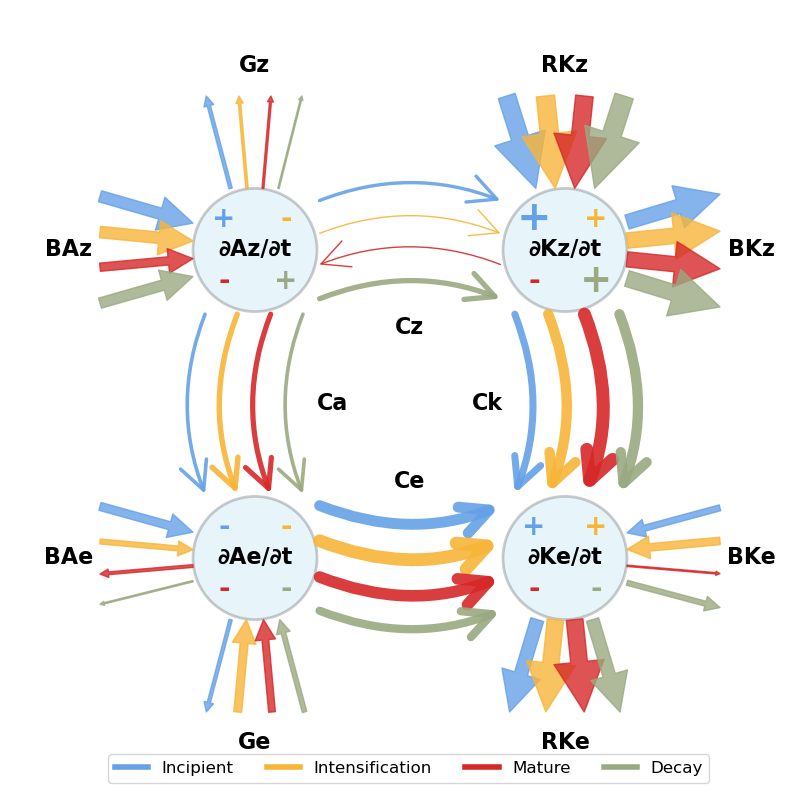
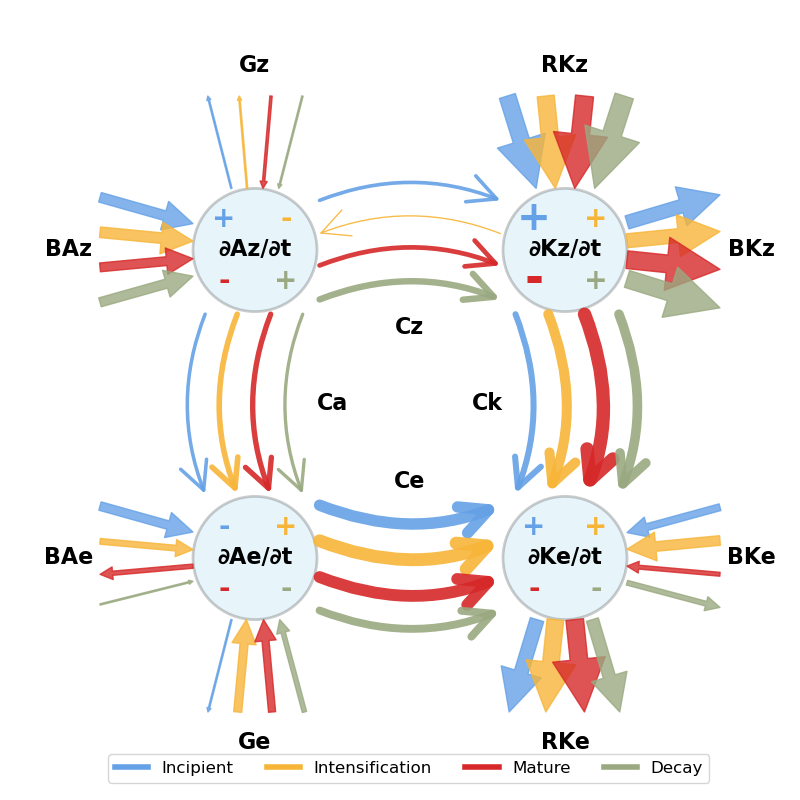
tests for arrow length

diff --git a/manuscript_lec_climatology/draw_lec_arrow_length.py b/manuscript_lec_climatology/draw_lec_arrow_length.py
@@ -1,12 +1,12 @@
 # **************************************************************************** #
 #                                                                              #
 #                                                         :::      ::::::::    #
-#    draw_lec.py                                        :+:      :+:    :+:    #
+#    draw_lec_arrow_length.py                           :+:      :+:    :+:    #
 #                                                     +:+ +:+         +:+      #
 #    By: daniloceano <danilo.oceano@gmail.com>      +#+  +:+       +#+         #
 #                                                 +#+#+#+#+#+   +#+            #
 #    Created: 2024/01/03 23:31:13 by daniloceano       #+#    #+#              #
-#    Updated: 2025/03/21 14:42:47 by daniloceano      ###   ########.fr        #
+#    Updated: 2025/03/21 15:37:18 by daniloceano      ###   ########.fr        #
 #                                                                              #
 # **************************************************************************** #
 
@@ -164,9 +164,7 @@ def plot_arrow(ax, start, end, term_value, normalized_value, term, phase):
     color = COLOR_PHASES[phase]
 
     # Definir o tamanho da seta
-    size = 5 * normalized_value
-    if size < 1:
-        size = 1
+    size = 5
 
     # Inverter começo e fim se term_value for negativo
     if term_value < 0:
@@ -305,22 +303,28 @@ def plot_term_arrows(ax, size, term, data, normalized_data, positions, phase):
 
     displacement = phase_displacement.get(phase, 0)  # Deslocamento baseado na fase
 
-    # Definir posições e condições para cada termo
+    # Obter a magnitude do termo (valores absolutos) para ajustar o tamanho da seta
+    magnitude = np.abs(normalized_data[term]) / 2
+
+    # Ajustar o início e o fim das setas com base na magnitude
     if term == "Cz":
-        start = (positions["∂Az/∂t"][0] + size / 2, positions["∂Az/∂t"][1] + displacement)
-        end = (positions["∂Kz/∂t"][0] - size / 2, positions["∂Kz/∂t"][1] + displacement)
+        # Cz é horizontal (ajustar o eixo X)
+        start = ((positions["∂Az/∂t"][0] + size / 2) * (magnitude), positions["∂Az/∂t"][1] + displacement)
+        end = ((positions["∂Kz/∂t"][0] - size / 2) * (magnitude), positions["∂Kz/∂t"][1] + displacement)
 
     elif term == "Ca":
-        start = (positions["∂Az/∂t"][0] + displacement, positions["∂Az/∂t"][1] - size / 2)
-        end = (positions["∂Ae/∂t"][0] + displacement, positions["∂Ae/∂t"][1] + size / 2)
+        # Ca é vertical (ajustar o eixo Y)
+        start = (positions["∂Az/∂t"][0] + displacement, (positions["∂Az/∂t"][1] - size / 2) * (magnitude))
+        end = (positions["∂Ae/∂t"][0] + displacement, (positions["∂Ae/∂t"][1] + size / 2) * (magnitude))
 
     elif term == "Ck":
-        start = (positions["∂Kz/∂t"][0] + displacement, positions["∂Ke/∂t"][1] + size / 2)
-        end = (positions["∂Ke/∂t"][0] + displacement, positions["∂Kz/∂t"][1] - size / 2)
+        start = (positions["∂Kz/∂t"][0] + displacement, (positions["∂Ke/∂t"][1] + size / 2) * (magnitude))
+        end = (positions["∂Ke/∂t"][0] + displacement, (positions["∂Kz/∂t"][1] - size / 2) * (magnitude))
 
     elif term == "Ce":
-        start = (positions["∂Ae/∂t"][0] + size / 2, positions["∂Ke/∂t"][1] + displacement)
-        end = (positions["∂Ke/∂t"][0] - size / 2, positions["∂Ae/∂t"][1] + displacement)
+        start = ((positions["∂Ae/∂t"][0] + size / 2) * (magnitude), positions["∂Ke/∂t"][1] + displacement)
+        end = ((positions["∂Ke/∂t"][0] - size / 2) * (magnitude), positions["∂Ae/∂t"][1] + displacement)
+
 
     # Plot text for residuals
     elif term == "Gz":
@@ -342,8 +346,8 @@ def plot_term_arrows(ax, size, term, data, normalized_data, positions, phase):
     # Plot text for boundaries
     elif term in ["BAz", "BAe"]:
         refered_term = "∂Az/∂t" if term == "BAz" else "∂Ae/∂t"
-        start = (-1, positions[refered_term][1] + displacement)
-        end = (positions[refered_term][0] - size / 2, positions[refered_term][1] + displacement / 2)
+        start = (-1 * (magnitude * 10), positions[refered_term][1] + displacement)
+        end = ((positions[refered_term][0] - size / 2), positions[refered_term][1] + displacement / 2)
 
     elif term in ["BKz", "BKe"]:
         refered_term = "∂Kz/∂t" if term == "BKz" else "∂Ke/∂t"
@@ -448,7 +452,7 @@ def plot_lorenzcycletoolkit(periods_df, figures_directory, normalization_type="l
 
     figures_subdirectory = os.path.join(figures_directory, "draw_LEC")
     os.makedirs(figures_subdirectory, exist_ok=True)
-    figure_path = os.path.join(figures_subdirectory, f"LEC_total.png")
+    figure_path = os.path.join(figures_subdirectory, f"LEC_total_arrow_length.png")
     plt.savefig(figure_path)
     plt.close()
     print(f"Lorenz cycle plot saved to {figure_path}")
